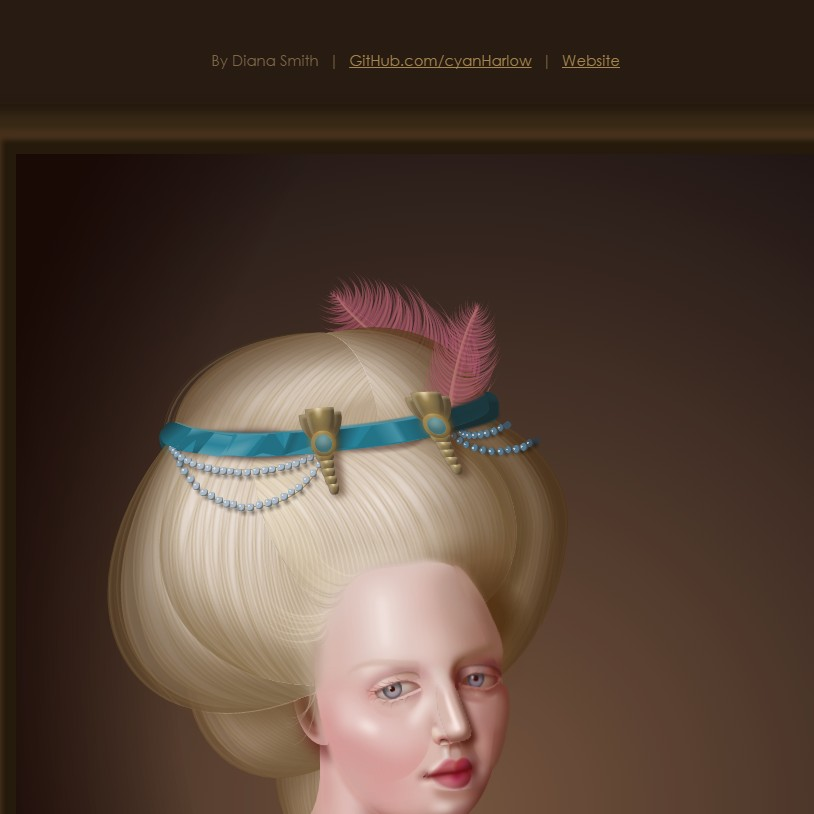
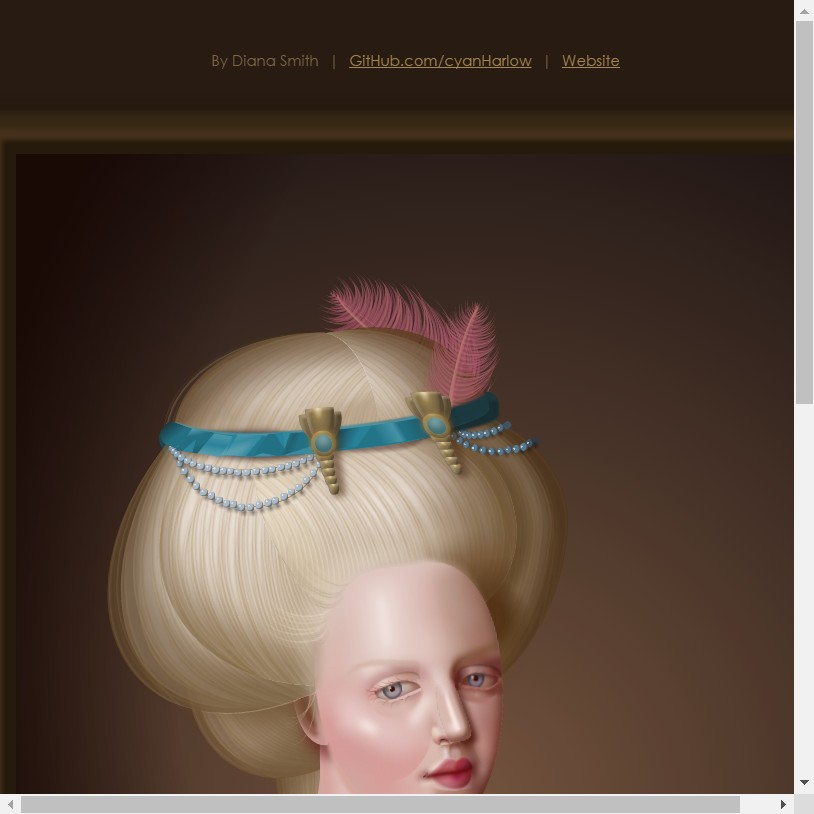
screenshots

Changed region(s): [[0.0, 0.0, 1.0, 1.0]]

diff --git a/index.html b/index.html
@@ -7,6 +7,9 @@
     <meta name="viewport" content="width=722" />
     <meta name="keywords" content="cyanharlow, diana, css, art" />
     <link rel="stylesheet" href="francine.css" type="text/css">
+
+    <link rel="stylesheet" href="disabled1.css" type="text/css">
+    <link rel="stylesheet" href="disabled2.css" type="text/css">
 </head>
 <body>
     <div id="linksection" class="linksection">

diff --git a/screenshot1.css b/screenshot1.css
@@ -1,0 +1,3 @@
+#linksection {
+    display: none;
+}

diff --git a/screenshot2.css b/screenshot2.css
@@ -1,0 +1,3 @@
+.paper {
+    top: -90px;
+}
